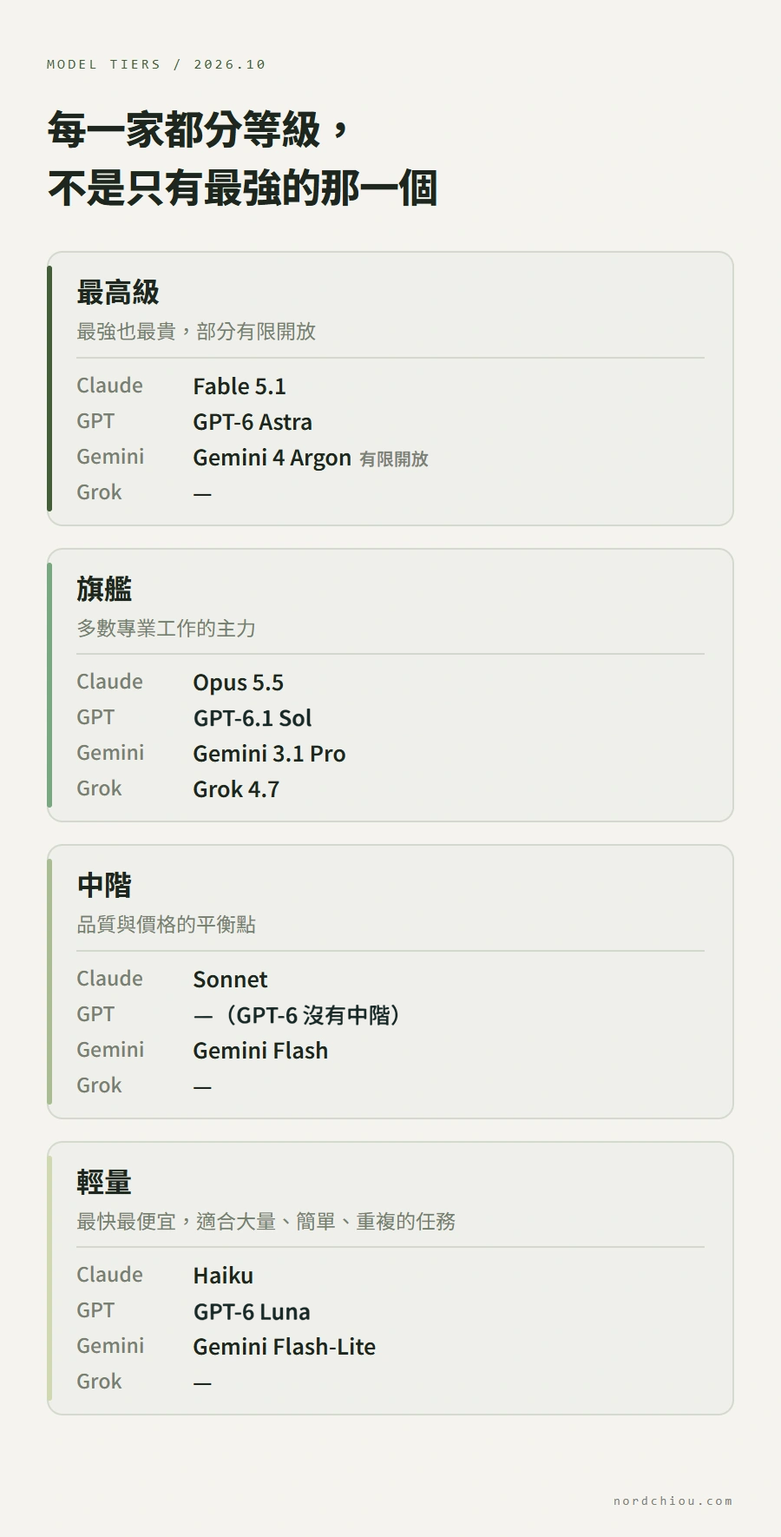
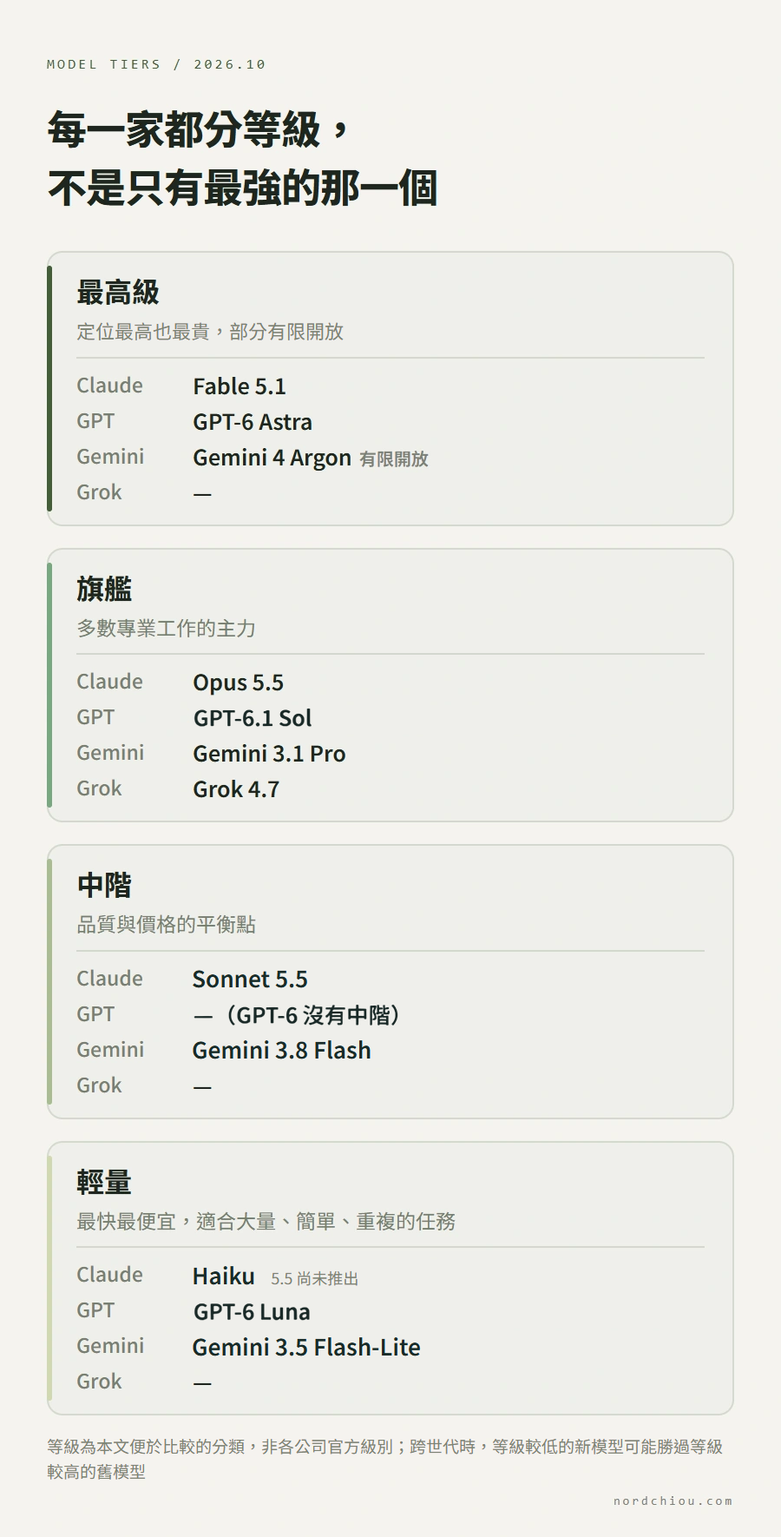
Revise frontier models post after fact-check reviews
Apply verified corrections from three review rounds: Sonnet 5.5 release,
Gemini 4 Argon and Gemini 3.x pricing, API availability for GPT-6 Astra
and GPT-6.1 Sol, Meta API regions, long-context pricing thresholds,
ranking caveats (index v4.3.2, selected models, Claude fallback), and
"open-weight" terminology. Update the model, tier and ranking diagrams
to match.

diff --git a/content/blog/frontier-models-2026.md b/content/blog/frontier-models-2026.md
@@ -27,19 +27,19 @@ tags: ["大型語言模型", "生成式 AI", "工具比較"]
 
 > **前沿模型之間的能力差距，已經小到每幾個月就換一次冠軍。企業真正該比較的不是「誰最強」，而是「哪個生態系最貼近你的工作、資料能不能安心交出去、用哪一級的模型就夠」，並且保留隨時換模型的彈性。**
 
-這篇是「AI 模型種類」系列的第一篇，先從最受關注的前沿模型開始；開源模型、小型模型與特定用途的模型，會在後續文章分別介紹。
+這篇是「AI 模型種類」系列的第一篇，先從最受關注的前沿模型開始：以 Claude、GPT、Gemini、Grok 四大家族為主，也會順帶介紹 9 月推出 Muse Spark 1.3 的 Meta，以及正在追上的開放權重模型；這些模型的細節，以及小型模型與特定用途的模型，會在後續文章分別介紹。
 
 *本文資訊截至 2026 年 10 月 7 日。模型更新非常快，數字與名稱請以各家官方公告為準。*
 
 ## 1. 什麼是前沿模型？
 
-前沿模型（frontier model）指的是**各家 AI 公司能力最強、站在技術最前線的模型**。它們通常有四個共同特徵：
+前沿模型（frontier model）指的是**在通用能力上最接近當前技術前沿的一群模型**，通常是各大 AI 公司的頂級產品。它們通常有四個共同特徵：
 
 | 特徵 | 說明 |
 | --- | --- |
 | 訓練成本極高 | 動輒需要數萬到十萬張以上的 GPU（繪圖處理器，AI 運算的主要晶片）。例如 GPT-6 Astra 就是用超過 10 萬張 GPU 訓練的，全世界只有少數公司負擔得起 |
 | 閉源（closed-source） | 模型本身不公開，只能透過官方的聊天產品，或 API（應用程式介面，讓你的系統用程式呼叫模型）使用 |
-| 能力最全面 | 寫作、分析、寫程式、看圖、操作電腦都能做，也是各種 AI Agent 背後的「大腦」 |
+| 能力最全面 | 寫作、分析、寫程式、看圖、操作電腦都能做，也是各種 AI Agent（會自己規劃步驟、使用工具把事情做完的 AI）背後的「大腦」 |
 | 更新很快 | 各家大約每兩到四個月就推出新版本，排行榜第一名經常易主 |
 
 用汽車來比喻：前沿模型就像各車廠的**旗艦車款**，代表這家公司的最高技術水準。但就像不是每個人都需要開旗艦車，企業日常大部分的工作，也不一定需要用到最頂級的模型（第 5 節會再說明）。
@@ -48,18 +48,18 @@ tags: ["大型語言模型", "生成式 AI", "工具比較"]
 
 討論之前，先釐清一個常見的混淆：**你每天打開的 ChatGPT、Claude、Gemini，是「產品」；背後真正在思考的，是「模型」。**
 
-![模型與產品的關係：Anthropic 的 Claude 模型（Fable、Opus、Sonnet、Haiku）用在 Claude App、Claude Code 與 Claude Cowork；OpenAI 的 GPT 模型（GPT-6 Astra、GPT-6.1 Sol、GPT-6 Luna）用在 ChatGPT 與 Codex；Google 的 Gemini 模型（Gemini 4 Argon、3.x Pro、Flash）用在 Gemini App 與 Google Workspace；同一個模型也能透過 API 或 AWS、Google Cloud、Azure 等雲端平台，接進企業自己的系統；Microsoft 365 Copilot 這類產品則會同時使用不同公司的模型](/content-images/blog/frontier-models-2026/model-vs-product.webp "/content-images/blog/frontier-models-2026/model-vs-product-mobile.webp")
+![模型與產品的關係：Anthropic 的 Claude 模型（Fable、Opus、Sonnet、Haiku）用在 Claude App、Claude Code 與 Claude Cowork；OpenAI 的 GPT 模型（GPT-6 Astra、GPT-6.1 Sol、GPT-6 Luna）用在 ChatGPT 與 Codex；Google 的 Gemini 模型（Gemini 3.1 Pro、3.8 Flash；最新的 Gemini 4 Argon 尚未一般開放）用在 Gemini App 與 Google Workspace；同一個模型也能透過 API 或 AWS、Google Cloud、Azure 等雲端平台，接進企業自己的系統；Microsoft 365 Copilot 這類產品則會同時使用不同公司的模型](/content-images/blog/frontier-models-2026/model-vs-product.webp "/content-images/blog/frontier-models-2026/model-vs-product-mobile.webp")
 
 | 你用的產品 | 公司 | 背後的模型 |
 | --- | --- | --- |
 | ChatGPT、Codex | OpenAI | GPT 系列（GPT-6 Astra、GPT-6.1 Sol 等） |
 | Claude App、Claude Code、Claude Cowork | Anthropic | Claude 系列（Fable、Opus、Sonnet、Haiku） |
-| Gemini App、Google Workspace | Google | Gemini 系列（Gemini 4 Argon、3.1 Pro、Flash 等） |
+| Gemini App、Google Workspace | Google | Gemini 系列（3.1 Pro、3.8 Flash 等；頂級的 4 Argon 尚未一般開放） |
 | Microsoft 365 Copilot | 微軟 | 同時使用 OpenAI 與 Anthropic 的模型 |
 
 這個區分對企業很重要，原因有兩個：
 
-1. **同一個模型，可以從很多地方用到。** 例如 Claude 的模型也能透過 AWS、Google Cloud、Microsoft Azure 使用。公司已經有雲端合約與資安審查的話，通常可以直接在上面用，不必另外簽約。
+1. **同一個模型，可以從很多地方用到。** 例如 Claude 的模型也能透過 AWS、Google Cloud、Microsoft Azure 使用。公司已經有雲端合約與資安審查的話，通常可以沿用既有的採購與帳務流程，但仍要確認模型的使用條款、權限、可用地區與啟用要求。
 2. **產品好不好用，不只取決於模型。** 介面設計、能串接哪些工具、記憶與檔案管理方式都有影響。我們在 [AI Agent 比較](/blog/ai-agent-comparison) 一文中也提過：Agent 產品之間的差別，主要不在背後用哪個模型。
 
 ## 3. 四大家族的最新陣容（2026 年 10 月）
@@ -68,33 +68,33 @@ tags: ["大型語言模型", "生成式 AI", "工具比較"]
 
 | 家族 | 公司 | 目前主力 | 一句話特色 |
 | --- | --- | --- | --- |
-| Claude | Anthropic | Fable 5.1、Opus 5.5 | 寫程式與長時間 Agent 任務最強，三大雲端都能用 |
+| Claude | Anthropic | Fable 5.1、Opus 5.5 | 寫程式與長時間 Agent 任務表現突出，三大雲端都能用 |
 | GPT | OpenAI | GPT-6 Astra、GPT-6.1 Sol | 使用者最多，主打操作電腦與專業工作 |
-| Gemini | Google | Gemini 4 Argon、3.1 Pro | 多模態與長文本見長，Google Workspace 整合最深 |
+| Gemini | Google | 3.1 Pro、3.8 Flash（頂級的 4 Argon 尚未一般開放） | 多模態與長文本見長，Google Workspace 整合最深 |
 | Grok | xAI | Grok 4.7 | 價格低，可搜尋 X 的即時內容 |
 
-另外，Meta 也在 9 月擠進前沿行列，放在本節最後介紹。以下各家都用同樣的格式整理：**模型陣容 → 強項 → 要注意的地方**。
+另外，Meta 在 9 月推出的 Muse Spark 1.3 實力也相當接近，放在本節最後介紹。以下各家都用同樣的格式整理：**模型陣容 → 強項 → 要注意的地方**。
 
 ### Claude（Anthropic）
 
-Claude 5 系列分成四個等級，由強到弱是 Fable、Opus、Sonnet、Haiku：
+Claude 5 系列分成四個等級，產品定位由高到低是 Fable、Opus、Sonnet、Haiku：
 
 | 等級 | 模型 | 推出 | 重點 |
 | --- | --- | --- | --- |
-| 最高級 | **Fable 5.1** | 9 月 | 一般使用者能用到的最強 Claude，等級在 Opus 之上 |
-| 旗艦 | **Opus 5.5** | 9 月 22 日 | 大部分工作已達 Fable 水準，成本比上一代低約 40% |
-| 中階 | **Sonnet 5.5** | 9 月 28 日 | 速度快 30% 以上，部分程式測試勝過 Opus 5.5 |
-| 輕量 | **Haiku 5.5** | 尚未推出 | 官方表示未來幾週推出 |
+| 最高級 | **Fable 5.1** | 9 月 1 日 | 定位最高、價格最貴的 Claude，等級在 Opus 之上 |
+| 旗艦 | **Opus 5.5** | 9 月 22 日 | 大部分工作已達 Fable 水準，執行成本比 Opus 5 低約 40% |
+| 中階 | **Sonnet 5.5** | 9 月 28 日 | 比上一代 Sonnet 5 快 30% 以上，部分程式測試勝過 Opus 5.5 |
+| 輕量 | **Haiku 5.5** | 尚未推出 | 官方表示未來幾週推出；目前可用的是 Haiku 4.5 |
 
 **強項：**
 
-- **寫程式與長時間的 Agent 任務**：Claude Code 與 Claude Cowork 都建立在這個能力之上。
-- **通路最廣**：同時上架 AWS、Google Cloud 和 Microsoft Azure，不論公司用哪一家雲端，都能在既有的合約與資安框架內使用。
+- **寫程式與長時間的 Agent 任務表現突出**：在第三方綜合評測中，Opus 5.5 與 Sonnet 5.5 目前分居第一、二名（見第 4 節）；Claude Code 與 Claude Cowork 都建立在這個能力之上。
+- **通路最廣**：同時上架 AWS、Google Cloud 和 Microsoft Azure，不論公司用哪一家雲端，大多能沿用既有的採購與資安流程（仍需另外啟用模型、確認條款）。
 
 **要注意：**
 
-- Fable 有一個同模型、但限制較寬鬆的版本 **Claude Mythos 5.1**，只開放給通過審核的資安與生命科學機構。一般版的 Fable 遇到滲透測試、漏洞利用這類請求，會自動轉給 Opus 處理。
-- 對多數企業來說，**Opus 5.5 或 Sonnet 5.5 就是性價比最好的選擇**，不一定要用到 Fable。
+- **等級最高，不等於分數最高**：Fable 5.1 是 9 月初推出的 5.1 世代；9 月下旬推出的 5.5 世代（Opus 5.5、Sonnet 5.5）雖然等級較低，但在第三方綜合評測中已經反超 Fable 5.1（見第 4 節），價格還只有它的四成到五分之一。**新專案建議直接以 5.5 世代為主力**，不一定要用到 Fable。
+- Fable 有一個同模型、但限制較寬鬆的版本 **Claude Mythos 5.1**，只透過 Anthropic 的受信任存取計畫（資安、生命科學）開放給經審核的個人與組織，目前僅限部分美國組織。一般版的 Fable 遇到滲透測試（模擬駭客攻擊來找系統弱點）、漏洞利用這類高風險請求，會自動轉給 Opus 處理。
 
 ### GPT（OpenAI）
 
@@ -102,20 +102,20 @@ OpenAI 今年的節奏最快：3 月 GPT-5.4、4 月 GPT-5.5、7 月 GPT-5.6，9
 
 | 等級 | 模型 | 推出 | 重點 |
 | --- | --- | --- | --- |
-| 最高級 | **GPT-6 Astra** | 9 月 3 日 | 電腦操作、軟體工程、資安全面領先 |
-| 旗艦 | **GPT-6.1 Sol** | 9 月 29 日 | 表現「幾乎追平 Astra」，價格只有五分之一 |
+| 最高級 | **GPT-6 Astra** | 9 月 3 日 | 官方稱電腦操作、軟體工程、資安達頂尖水準 |
+| 旗艦 | **GPT-6.1 Sol** | 9 月 29 日 | 表現「幾乎追平 Astra」，每 token 價格只有五分之一 |
 | 輕量 | **GPT-6 Luna** | 9 月 22 日 | 最快、最便宜，適合大量、單純的任務 |
 
 **強項：**
 
-- **GPT-6 Astra 全面領先**：在電腦操作、瀏覽器操作、軟體工程、資安與科學上都達到最先進水準，總裁 Greg Brockman 形容這是「世代級的躍進」。
-- **使用者基礎最大**：ChatGPT 是全世界最多人用的 AI 產品，員工最熟悉、教育成本最低。
+- **GPT-6 Astra 能力全面**：依 OpenAI 公布的評測，它在電腦操作、瀏覽器操作、軟體工程、資安與科學上都達到頂尖水準，總裁 Greg Brockman 形容這是「世代級的躍進」。
+- **使用者基礎廣泛**：ChatGPT 是最廣為人知的 AI 產品之一。如果員工已經習慣用 ChatGPT，導入時的教育成本通常比較低。
 - **Agent 產品完整**：Codex 與 ChatGPT Work，讓 GPT 模型直接延伸到工作流程中。
 
 **要注意：**
 
-- **GPT-6.1 Sol 目前只在 ChatGPT Work 與 Codex 提供**給付費方案用戶，一般的 ChatGPT 對話介面還沒上線。
-- 原本預期會推出的 **GPT-6.1 Astra 已取消**：據《華爾街日報》報導，原因是內部測試發現安全疑慮。
+- **GPT-6.1 Sol 在 ChatGPT 裡目前只出現在 Work 與 Codex**（付費方案），一般對話介面還沒上線；要串接公司自己的系統，則可以直接透過 API 使用。
+- 原本預計 10 月推出的 **GPT-6.1 Astra 已取消**：多家媒體轉述《華爾街日報》報導，原因是內部安全測試發現，它比前一版更容易沒有如實說明自己做了哪些動作。
 - 上一代 **GPT-5.6**（分成 Sol、Terra、Luna 三級）仍可使用，但新專案建議直接評估 GPT-6：GPT-6 Sol 推出時，價格就比 GPT-5.6 Sol 降了一半。
 
 ### Gemini（Google）
@@ -125,20 +125,20 @@ Google 的策略是「一個旗艦、很多台工作馬」：
 | 等級 | 模型 | 推出 | 重點 |
 | --- | --- | --- | --- |
 | 最高級 | **Gemini 4 Argon** | 9 月 30 日 | 程式與資安大幅進步，能自動修補軟體漏洞 |
-| 旗艦 | **Gemini 3.1 Pro** | 2 月 | 一般企業目前實際用得到的主力 |
+| 旗艦 | **Gemini 3.1 Pro** | 2 月 | 一般企業目前實際用得到的主力（API 仍標示為預覽版） |
 | 中階 | **Gemini 3.8 Flash** | 9 月 2 日 | Google 的「工作馬」，快又便宜 |
 | 輕量 | **Gemini 3.5 Flash-Lite** | 7 月 | 適合大量、即時性高的任務 |
 
 **強項：**
 
-- **最強的資安能力**：Gemini 4 Argon 特別針對資安防禦訓練，能自動找出、驗證並修補軟體漏洞；單次輸出上限也提高到 100 萬 token。
+- **資安能力突出**：Google 表示 Gemini 4 Argon 特別針對資安防禦訓練，能自動找出、驗證並修補軟體漏洞；單次輸出上限也提高到 100 萬 token。
 - **多模態**（multimodal）：同時看得懂文字、圖片、影片與聲音。
 - **長文本**：一次可讀入約 100 萬個 token，大約是好幾本書的份量。
 - **整合最深**：已內建在 Gmail、Google 文件、試算表與 Meet 裡，Gemini App 月活躍用戶超過 10 億。公司本來就用 Google Workspace 的話，幾乎是零門檻。
 
 **要注意：**
 
-- **Gemini 4 Argon 目前只開放給 Google 資安合作計畫的夥伴**，一般 API 與 Gemini App 都還用不到。
+- **Gemini 4 Argon 目前只開放給 Google 資安合作計畫（Fairwind）的夥伴**，一般 API 與 Gemini App 都還用不到；Google 表示下一步會開放給付費 API 客戶與 Google AI Ultra 訂閱者，但尚未公布日期。
 
 ### Grok（xAI）
 
@@ -150,32 +150,32 @@ xAI 是馬斯克創立的 AI 公司，目前的主力是 9 月 21 日推出的 *
 | 即時資訊 | 可直接搜尋 X（前 Twitter）上的貼文，適合需要掌握即時輿論的應用 |
 | 上下文長度 | 50 萬 token，雖不及 Gemini，但足以處理大部分文件 |
 
-**要注意**：在台灣企業的實務上，Grok 的普及度與企業管理功能仍不如前三家，比較常見的用法是在開發者工具（例如 Cursor）中使用，或在重視成本的應用中作為備選。
+**要注意**：就我們的導入經驗，台灣企業目前較少把 Grok 當成主力模型，比較常見的用法是在開發者工具（例如 Cursor）中使用，或在重視成本的應用中作為備選。
 
 ### 也值得留意：Meta Muse Spark
 
-Meta 過去以開源的 Llama 系列聞名，今年改推閉源的 **Muse Spark** 系列：
+Meta 過去以開放權重的 Llama 系列聞名，今年 4 月改推閉源的 **Muse Spark** 系列：
 
 | 項目 | 內容 |
 | --- | --- |
 | 最新版本 | Muse Spark 1.3（9 月 2 日推出） |
-| 實力 | Meta 宣稱程式測試勝過 GPT-5.6 Sol 與 Claude Opus 5；在第三方綜合排名中僅次於前三大家族（見第 4 節） |
+| 實力 | Meta 宣稱程式測試勝過 GPT-5.6 Sol 與 Claude Opus 5（皆為上一代）；在第三方綜合排名中僅次於前三大家族（見第 4 節） |
 | API 價格 | 每百萬 token 輸入 1.25 美元、輸出 4.25 美元 |
-| 取得方式 | 目前只有 Meta 自家的 API 與 Muse Code；Meta 表示之後會推出開放權重的版本 |
+| 取得方式 | Meta Model API（公開預覽）、Muse Code，以及 OpenRouter 等通路；Meta 表示之後會推出開放權重的版本 |
 
-**要注意**：企業級管理功能與雲端平台通路都還在起步，比較適合先觀察、小規模試用。
+**要注意**：Meta Model API 開放給「多數提供 Meta AI 且支援付款的國家／地區」，各通路的可用地區、付款與帳號資格不同，台灣企業使用前請先依 Meta 最新的地域政策確認。企業級管理功能與雲端平台通路也還在起步，比較適合先觀察、小規模試用。
 
 ## 4. 綜合實力排名：目前誰最強？
 
-各家都說自己最強，那有沒有一個中立的比較？最常被引用的，是獨立評測機構 **Artificial Analysis** 的「智力指數」（Intelligence Index）：它把推理、知識、數學、科學、寫程式等多項測驗的成績，合成一個 0～100 的綜合分數，而且用同一套方法測所有模型。
+各家都說自己最強，那有沒有一個中立的比較？最常被引用的，是獨立評測機構 **Artificial Analysis** 的「智力指數」（Intelligence Index）：目前的版本（v4.3.2）綜合了 10 項測驗，涵蓋 Agent 任務、寫程式、一般知識與科學推理，合成一個綜合分數，並用同一套方法測所有模型。要注意的是，它以**英文、文字任務**為主，繁體中文與看圖等多模態能力不在這個分數裡。
 
-以下是 2026 年 10 月 7 日查詢的排名（每個模型取它表現最好的設定）：
+以下是我們從 2026 年 10 月 7 日的榜單中，選出本文提到的 12 款模型（每個模型取它表現最好的設定；Claude 三款採用榜單上的「with fallback」設定，也就是遇到被安全機制拒絕的請求時，改由其他 Claude 模型完成）：
 
-![前沿模型綜合實力排名長條圖（Artificial Analysis Intelligence Index，2026 年 10 月 7 日）：Claude Opus 5.5 58 分、Claude Sonnet 5.5 56 分、Claude Fable 5.1 53 分、GPT-6 Astra 53 分、Gemini 4 Argon 53 分、GPT-6.1 Sol 52 分，前六名只差 6 分；接著是 Meta Muse Spark 1.3 48 分、Grok 4.7 46 分、Kimi K3 44 分、Gemini 3.8 Flash 41 分、GPT-6 Luna 38 分、DeepSeek V4 Pro 36 分](/content-images/blog/frontier-models-2026/ranking.webp "/content-images/blog/frontier-models-2026/ranking-mobile.webp")
+![前沿模型綜合實力排名長條圖（Artificial Analysis Intelligence Index，2026 年 10 月 7 日）：Claude Opus 5.5 58 分、Claude Sonnet 5.5 56 分、Claude Fable 5.1 53 分、GPT-6 Astra 53 分、Gemini 4 Argon 53 分、GPT-6.1 Sol 52 分，前六名只差 6 分；接著是 Meta Muse Spark 1.3 48 分、Grok 4.7 46 分、Kimi K3 44 分、Gemini 3.8 Flash 41 分、GPT-6 Luna 38 分、DeepSeek V4 Pro 36 分；本文選列 12 款模型](/content-images/blog/frontier-models-2026/ranking.webp "/content-images/blog/frontier-models-2026/ranking-mobile.webp")
 
-完整名次與各模型的等級如下：
+各模型的排序與等級如下（榜單上另有 MiMo-V2.6-Pro、Qwen3.8 Max、GLM-5.3 等 45～46 分的模型，本文未列入）：
 
-| 名次 | 模型 | 公司 | 綜合分數 | 備註 |
+| 本表排序 | 模型 | 公司 | 綜合分數 | 備註 |
 | --- | --- | --- | --- | --- |
 | 1 | **Claude Opus 5.5** | Anthropic | **58** | 旗艦 |
 | 2 | **Claude Sonnet 5.5** | Anthropic | **56** | 中階 |
@@ -185,28 +185,32 @@ Meta 過去以開源的 Llama 系列聞名，今年改推閉源的 **Muse Spark*
 | 6 | GPT-6.1 Sol | OpenAI | 52 | 旗艦 |
 | 7 | Muse Spark 1.3 | Meta | 48 | 旗艦 |
 | 8 | Grok 4.7 | xAI | 46 | 旗艦 |
-| 9 | Kimi K3 | 月之暗面 | 44 | 開源 |
+| 9 | Kimi K3 | 月之暗面（Moonshot AI） | 44 | 開放權重 |
 | 10 | Gemini 3.8 Flash | Google | 41 | 中階 |
 | 11 | GPT-6 Luna | OpenAI | 38 | 輕量 |
-| 12 | DeepSeek V4 Pro | DeepSeek | 36 | 開源 |
+| 12 | DeepSeek V4 Pro（0813 版） | DeepSeek | 36 | 開放權重 |
 
 從這張表可以看出幾件事：
 
-- **前六名只差 6 分**：Anthropic、OpenAI、Google 的頂級模型幾乎並駕齊驅。這也是為什麼我們說「冠軍每幾個月就換一輪」，下一次新模型推出，排名很可能又會洗牌。
-- **新一代的中階，可以勝過上一代的頂級**：Opus 5.5 與 Sonnet 5.5 都是 9 月下旬才推出的新世代，分數反而高過等級更高、但早幾週推出的 Fable 5.1。同樣地，Google 2 月推出的旗艦 Gemini 3.1 Pro 只有 30 分，已被 9 月的 3.8 Flash（41 分）超越。**看模型不能只看等級，也要看推出時間。**
-- **開源模型已經進入同一張表**：Kimi K3 的分數已接近 Grok 4.7，和閉源前沿模型的差距正在縮小（第 7 節會再說明）。
+- **前六名只差 6 分**：Anthropic、OpenAI、Google 的頂級模型幾乎並駕齊驅（這是這套綜合指數上的差距，不代表每項能力、繁中表現或企業任務都一樣接近）。這也是為什麼我們說「冠軍每幾個月就換一輪」，下一次新模型推出，排名很可能又會洗牌。
+- **新一代的中階，可以勝過上一代的頂級**：Opus 5.5 與 Sonnet 5.5 都是 9 月下旬才推出的新世代，分數反而高過等級更高、但早幾週推出的 Fable 5.1。同樣地，Google 2 月推出的旗艦 Gemini 3.1 Pro 只有 30 分（所以沒有列入上表），已被 9 月的 3.8 Flash（41 分）超越。**看模型不能只看等級，也要看推出時間。**
+- **開放權重模型已經進入同一張表**：Kimi K3 的分數已接近 Grok 4.7，和閉源前沿模型的差距正在縮小（第 7 節會再說明）。
 
 > **怎麼看這張排名：綜合分數適合用來「縮小候選名單」，不適合直接拿來「決定用誰」。**
 >
-> 分數是在最高推理強度下測出來的，實際使用較低設定（較快、較便宜）時分數會比較低；而且標準化測驗不一定代表你的工作。建議從前幾名裡挑兩三個，再用公司自己的任務實測（見第 8 節）。
+> 表中分數是各模型表現最好的設定（多半是最高的推理強度），實際使用較快、較便宜的設定時，分數會比較低；而且這套指數以英文為主，標準化測驗也不一定代表你的工作。建議從前幾名裡挑兩三個，再用公司自己的任務實測（見第 8 節）。
 
 ## 5. 不是只有「最強的那一個」：每一家都分等級
 
 前面提到，每一家都同時提供好幾個等級的模型。把它們放在一起看會更清楚：
 
-![前沿模型的分級：最高級是 Claude Fable 5.1、GPT-6 Astra、Gemini 4 Argon，能力最強但最貴，部分有限開放；旗艦級是 Claude Opus 5.5、GPT-6.1 Sol、Gemini 3.1 Pro、Grok 4.7，大多數專業工作的主力；中階是 Claude Sonnet、Gemini Flash（GPT-6 沒有中階）；輕量級是 Claude Haiku、GPT-6 Luna、Gemini Flash-Lite，速度最快、最便宜，適合大量、簡單、重複的任務](/content-images/blog/frontier-models-2026/tiers.webp "/content-images/blog/frontier-models-2026/tiers-mobile.webp")
+![前沿模型的分級：最高級是 Claude Fable 5.1、GPT-6 Astra、Gemini 4 Argon，定位最高也最貴，部分有限開放；旗艦級是 Claude Opus 5.5、GPT-6.1 Sol、Gemini 3.1 Pro、Grok 4.7，大多數專業工作的主力；中階是 Claude Sonnet 5.5、Gemini 3.8 Flash（GPT-6 沒有中階）；輕量級是 Claude Haiku（5.5 尚未推出）、GPT-6 Luna、Gemini 3.5 Flash-Lite，速度最快、最便宜，適合大量、簡單、重複的任務。等級為本文便於比較的分類，非各公司官方級別](/content-images/blog/frontier-models-2026/tiers.webp "/content-images/blog/frontier-models-2026/tiers-mobile.webp")
 
-為什麼要分等級？因為**越強的模型越貴、也越慢**。API 是以 token（AI 計算文字的單位，一個中文字大約是一到兩個 token）計費，不同等級的價格可以差到上百倍：
+*這裡的等級是本文為了方便比較的分類，不一定是各公司的官方級別。*
+
+為什麼要分等級？因為在同一家、同一代的模型裡，**能力越強通常越貴、也越慢**（跨世代就不一定，第 4 節的排名就是例子）。
+
+API 是以 token 計費：token 是 AI 計算文字的單位，一個中文字粗估約一到兩個 token，依模型而異。**輸入**是你送給模型的內容，**輸出**是模型產生的內容（包含它思考時用掉的部分），輸出通常比較貴。不同等級的價格可以差到上百倍：
 
 | 等級 | 模型 | 輸入 | 輸出 |
 | --- | --- | --- | --- |
@@ -216,25 +220,36 @@ Meta 過去以開源的 Llama 系列聞名，今年改推閉源的 **Muse Spark*
 | 旗艦 | Claude Opus 5.5 | 4 | 20 |
 | 旗艦 | GPT-6.1 Sol | 2 | 10 |
 | 旗艦 | Grok 4.7 | 2 | 6 |
+| 旗艦 | Gemini 3.1 Pro（預覽版） | 2 | 12 |
 | 旗艦 | Meta Muse Spark 1.3 | 1.25 | 4.25 |
 | 中階 | Claude Sonnet 5.5 | 2 | 10 |
+| 中階 | Gemini 3.8 Flash | 0.75 | 3.75 |
 | 輕量 | GPT-6 Luna | 0.1 | 0.5 |
 
-*單位：每百萬 token，美元。Gemini 4 Argon 的 API 尚未全面開放，首發優惠價未說明截止日期。實際費用還會受快取、長文本加價、批次處理折扣等因素影響。*
+*單位：每百萬 token，美元；為各家公布的標準 API 費率。*
+
+看價格表時要注意幾點：
+
+- **Gemini 4 Argon** 的 API 尚未全面開放；依 Google 印尼官方部落格，首發優惠價適用到 2026 年 12 月 31 日，2027 年起為 4／20。
+- **Gemini 3.8 Flash** 是 2026 年底前的價格，2027 年起調為 1.5／7.5。
+- **長文本會加價**：單次輸入達 20 萬 token 起（Grok 4.7）、超過 20 萬 token（Gemini 3.1 Pro）、超過 27.2 萬 token（GPT-6 Astra、GPT-6.1 Sol）時，**整筆請求**都會改用較高的費率（例如 Grok 4.7 變成 4／12；OpenAI 則是輸入 2 倍、輸出 1.5 倍）。
+- **單價不等於總成本**：前面提到 Opus 5.5「執行成本低約 40%」，指的是完成同樣工作的整體花費；實際帳單還會受模型思考時用掉的 token、重試次數影響，不能只看每 token 單價。
+- **有折扣可用**：重複送出相同內容可享快取（cache）折扣，不急的工作可用批次處理（batch）折扣，實際帳單會因用法而不同。
+- Meta 的 Muse Spark 目前只有單一主力模型，所以沒有出現在上面的分級圖中。
 
 > **實務建議：先用中階或旗艦模型把流程跑通，再看哪些步驟可以換成更便宜的模型。**
 >
-> 例如一個 [AI 客服](/blog/ai-customer-service-architecture) 系統，「判斷客人問的是哪一類問題」這種簡單分類，用輕量模型就夠了；只有真正需要推理的複雜問題，才交給旗艦模型。這樣混用，成本往往能降到原本的幾分之一，品質卻差不多。
+> 例如一個 [AI 客服](/blog/ai-customer-service-architecture) 系統，「判斷客人問的是哪一類問題」這種簡單分類，用輕量模型就夠了；只有真正需要推理的複雜問題，才交給旗艦模型。這樣混用有機會大幅降低成本，但品質是否夠用，仍要用實際案例測過才知道。
 
 ## 6. 新趨勢：最強的模型，不一定拿得到
 
-今年出現了一個以前沒有的現象：**最強的模型，一推出就「有限開放」。**
+今年有一個特別值得留意的趨勢：**最強的模型，一推出就「有限開放」。**
 
 | 公司 | 最強模型 | 目前開放對象 |
 | --- | --- | --- |
-| Anthropic | Claude Mythos 5.1 | 只開放給通過審核的資安與生命科學機構；一般版 Fable 有額外安全限制 |
-| OpenAI | GPT-6 Astra | 先開放給資安防禦計畫 Daybreak 的成員，再逐步擴大到付費用戶與 API |
-| Google | Gemini 4 Argon | 目前只開放給 Google 資安合作計畫的夥伴 |
+| Anthropic | Claude Mythos 5.1 | 透過受信任存取計畫開放給經審核的資安、生命科學個人與組織，目前僅限部分美國組織；一般版 Fable 有額外安全限制 |
+| OpenAI | GPT-6 Astra | 推出初期分階段、先向少數組織（包括資安防禦計畫 Daybreak 的成員）開放；目前已提供給 ChatGPT 付費方案與 API，進階資安用途另有存取限制 |
+| Google | Gemini 4 Argon | 目前只開放給 Google 資安合作計畫（Fairwind）的夥伴；下一步是付費 API 客戶與 Google AI Ultra 訂閱者 |
 
 原因很一致：這一代模型找出並利用軟體漏洞的能力已經強到，**落到攻擊者手中會造成實際危害**。所以各家選擇先讓防守方用，再逐步開放，並在高風險用途上加上限制。
 
@@ -243,16 +258,16 @@ Meta 過去以開源的 Llama 系列聞名，今年改推閉源的 **Muse Spark*
 1. **「最新的模型」不等於「你能用的模型」。** 看新聞時要留意它是正式推出、預覽，還是只開放給特定對象，以及在台灣能不能用。
 2. **資安的攻防節奏變快了。** 攻擊者遲早也會拿到同等能力的工具，公司系統的更新與漏洞修補不能再拖。
 
-## 7. 開源陣營正在快速追上
+## 7. 開放權重模型正在快速追上
 
-前沿模型以外，另一股不能忽視的力量是**開源模型**（open-weight model，公開模型本身、可以下載到自己的伺服器上執行）：
+另一股值得留意的力量是**開放權重模型**（open-weight model）：公開模型的權重檔，可以下載到自己的伺服器上執行。它們常被通稱為「開源模型」，但訓練資料與程式碼不一定公開，授權條件也各有不同。
 
 | 模型 | 公司 | 推出 |
 | --- | --- | --- |
 | Kimi K3 | 月之暗面（Moonshot AI） | 7 月公開完整模型 |
-| DeepSeek V4 Pro | DeepSeek | 8 月 |
+| DeepSeek V4 Pro | DeepSeek | 4 月推出預覽版，8 月 13 日推出正式版 |
 
-它們在多項測試中，已經和閉源前沿模型互有勝負，而且使用成本低得多。對資料不能出公司、或用量非常大的企業來說，開源模型是值得認真評估的選項。這部分我們會在系列的下一篇詳細介紹。
+它們在部分測試中已經和閉源前沿模型互有勝負，API 價格通常也低得多。不過若要自己架設，硬體、維運與授權條件都會影響總成本，不一定比較便宜。對資料不能出公司、或用量非常大的企業來說，開放權重模型是值得認真評估的選項。這部分我們會在系列的下一篇詳細介紹。
 
 ## 8. 企業該怎麼選前沿模型？
 
@@ -261,14 +276,14 @@ Meta 過去以開源的 Llama 系列聞名，今年改推閉源的 **Muse Spark*
 | 原則 | 具體做法 |
 | --- | --- |
 | **1. 先看生態系，再看模型** | 用 Microsoft 365 就從 Copilot 開始；用 Google Workspace 就從 Gemini 開始；已有 AWS 或 Azure 合約，就看上面有哪些模型。這通常是阻力最小、資安審查最快的路 |
-| **2. 確認資料治理** | 一定要用企業方案（Business、Team、Enterprise），確認條款承諾不拿你的資料訓練模型，並有管理後台控管帳號。員工各自用個人帳號處理公司資料，是最常見的資安漏洞 |
+| **2. 確認資料治理** | 使用公司核准的企業方案或 API，逐項確認：資料會不會拿去訓練模型、會保存多久、存放在哪個地區，以及有沒有管理後台控管帳號權限、留下稽核紀錄。員工各自用個人帳號處理公司資料，是常見的資料外洩風險 |
 | **3. 依任務選等級** | 寫信、摘要、分類用中階或輕量模型就很好；複雜分析、寫程式、長時間的 Agent 任務，才值得用旗艦 |
-| **4. 保留切換彈性** | 開發自己的 AI 應用時，讓模型可以替換（例如透過統一的介面呼叫），不要把某一家的寫法散落在程式各處 |
+| **4. 保留切換彈性** | 自行或委外開發 AI 應用時，要求系統能替換模型，並請開發方說明換模型需要多少時間與成本，避免被單一供應商綁住 |
 | **5. 用自己的任務實測** | 排行榜是標準化測驗，不一定代表你的工作。挑三到五個每週真的要做的任務，讓兩三個模型各做一輪，結果往往一目了然 |
 
 ## 結語：與其追冠軍，不如打好隨時換車的基礎
 
-九月短短四週，四家公司輪番推出新模型、各自宣稱第一。可以預見的是，三個月後這份名單又會換一輪。
+九月短短四週，四家公司輪番推出新模型、各自宣稱第一。這份名單很可能在幾個月內又會更新。
 
 對企業來說，比「現在選哪個最強」更重要的，是建立一套**換模型也不會傷筋動骨**的做法：
 
@@ -276,7 +291,7 @@ Meta 過去以開源的 Llama 系列聞名，今年改推閉源的 **Muse Spark*
 - 可以替換模型的系統架構
 - 一組能快速評估新模型的公司內部測試任務
 
-有了這些，不論下一個冠軍是誰，你都能在幾天內判斷要不要換。
+有了這些，不論下一個冠軍是誰，你都能很快做出初步評估，決定要不要換。
 
 如果你正在評估公司該用哪一家的模型，或是想知道現有的 AI 應用能不能改用更便宜的模型，可以從**導入診斷**開始：我們會盤點你們目前的工作流程、使用的系統與資料規範，建議適合的模型組合與導入順序。
 
@@ -285,18 +300,30 @@ Meta 過去以開源的 Llama 系列聞名，今年改推閉源的 **Muse Spark*
 - Anthropic，〈[Introducing Claude Opus 5.5](https://www.anthropic.com/claude-opus-5-5)〉，2026
 - Anthropic，〈[Introducing Claude Fable 5.1 and Claude Mythos 5.1](https://www.anthropic.com/claude-fable-and-mythos-5-1)〉，2026
 - TechCrunch，〈[Anthropic releases Opus 5.5 with lower prices and Fable-level performance](https://techcrunch.com/2026/09/22/anthropic-releases-opus-5-5-with-lower-prices-and-fable-level-performance/)〉，2026
+- Anthropic，〈[Introducing Claude Sonnet 5.5](https://www.anthropic.com/claude-sonnet-5-5)〉，2026
 - SiliconANGLE，〈[Anthropic debuts Claude Sonnet 5.5 running 30% faster than the previous-generation AI model](https://siliconangle.com/2026/09/28/anthropic-debuts-claude-sonnet-5-5-running-30-faster-than-the-previous-generation-ai-model/)〉，2026
 - OpenAI，〈[GPT-6 Astra](https://openai.com/index/gpt-6-astra/)〉，2026
 - Constellation Research，〈[OpenAI launches GPT-6 Astra](https://www.constellationr.com/insights/news/openai-launches-gpt-6-astra)〉，2026
 - CNBC，〈[OpenAI announces rollout of GPT-6 Astra model](https://www.cnbc.com/2026/09/03/open-ai-astra-gpt-6-cyber.html)〉，2026
 - TechCrunch，〈[OpenAI launches GPT-6.1 Sol, says it nearly matches GPT-6 Astra and costs less](https://techcrunch.com/2026/09/29/openai-launches-gpt-6-1-sol-says-it-nearly-matches-gpt-6-astra-and-costs-less/)〉，2026
 - The New Stack，〈[OpenAI releases GPT-6 Sol and Luna — and cuts token prices in half](https://thenewstack.io/openai-gpt-6-sol-luna-release/)〉，2026
+- OpenAI，〈[GPT-6.1 Sol 模型文件](https://developers.openai.com/api/docs/models/gpt-6.1-sol)〉、〈[GPT-6 Astra 模型文件](https://developers.openai.com/api/docs/models/gpt-6-astra)〉
 - Wikipedia，〈[GPT-5.6](https://en.wikipedia.org/wiki/GPT-5.6)〉
 - TechCrunch，〈[Google releases Gemini 4 Argon, called its most powerful model yet](https://techcrunch.com/2026/09/30/google-releases-gemini-4-argon-called-its-most-powerful-model-yet/)〉，2026
+- Google，〈[Gemini 4 Argon（Google 印尼官方部落格）](https://blog.google/intl/id-id/products/explore-get-answers/gemini-4-argon-era-baru-kecerdasan-ai-frontier/)〉，2026
+- Google，〈[Gemini 3.8 Flash](https://blog.google/innovation-and-ai/models-and-research/gemini-models/3-8-flash-and-3-8-flash-cyber/)〉，2026
 - eesel AI，〈[Gemini 4 Argon: benchmarks, pricing, and how to get access](https://www.eesel.ai/blog/gemini-4-argon)〉，2026
 - TechCrunch，〈[Google releases three new Gemini models — but no 3.5 Pro](https://techcrunch.com/2026/07/21/google-releases-three-new-gemini-models-but-no-3-5-pro/)〉，2026
 - Wikipedia，〈[Gemini (language model)](https://en.wikipedia.org/wiki/Gemini_%28language_model%29)〉
 - xAI Docs，〈[Grok 4.7](https://docs.x.ai/developers/grok-4-7)〉
 - MarkTechPost，〈[SpaceXAI Releases Grok 4.7](https://www.marktechpost.com/2026/09/21/spacexai-releases-grok-4-7/)〉，2026
+- The Next Web，〈[OpenAI cancels October launch of GPT-6.1 Astra after failed safety tests](https://thenextweb.com/news/openai-cancels-launch-of-gpt-6-1-astra)〉，2026
+- TechNode，〈[Moonshot AI to make Kimi K3 available for public download](https://technode.com/2026/07/27/moonshot-ai-to-make-kimi-k3-available-for-public-download/)〉，2026
+- DeepSeek，〈[API 更新紀錄](https://api-docs.deepseek.com/updates/)〉
+- DataNorth，〈[DeepSeek releases V4-Pro-0813 and open sources Harness v0.1](https://datanorth.ai/news/deepseek-releases-v4-pro-0813-and-harness-v0-1)〉，2026
+- Artificial Analysis，〈[Intelligence Benchmarking Methodology](https://artificialanalysis.ai/methodology/intelligence-benchmarking)〉
+- Anthropic，〈[Refusals and fallback](https://platform.claude.com/docs/en/build-with-claude/refusals-and-fallback)〉
 - Artificial Analysis，〈[LLM Leaderboard](https://artificialanalysis.ai/leaderboards/models)〉，2026 年 10 月 7 日查詢
+- Meta，〈[Meta Model API 支援國家／地區](https://dev.meta.ai/help/accounts-and-login/supported-countries)〉
+- Meta，〈[Introducing Muse Spark 1.3](https://research.meta.ai/blog/introducing-muse-spark-1-3)〉，2026
 - GIGAZINE，〈[Metaが「Muse Spark 1.3」を発表](https://gigazine.net/news/20260903-meta-muse-spark-1-3/)〉，2026
